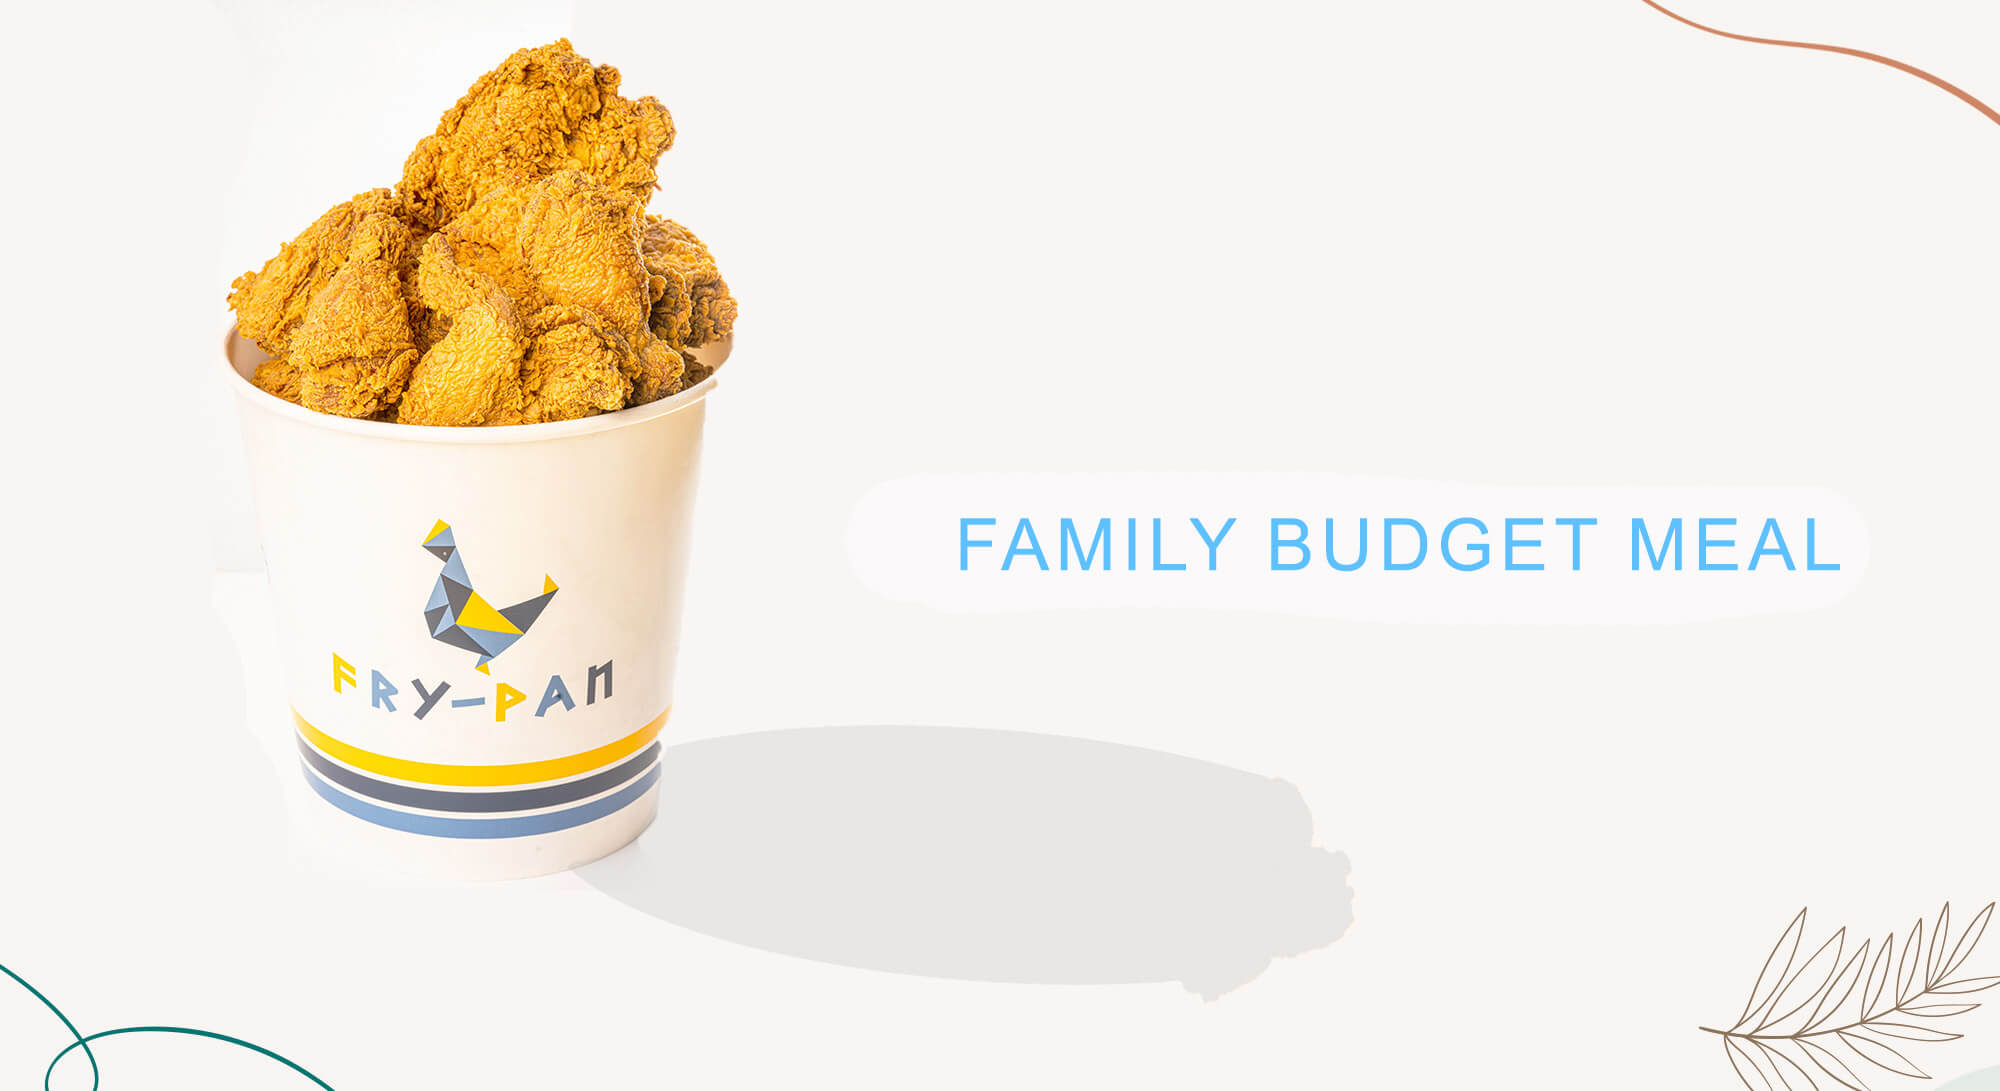
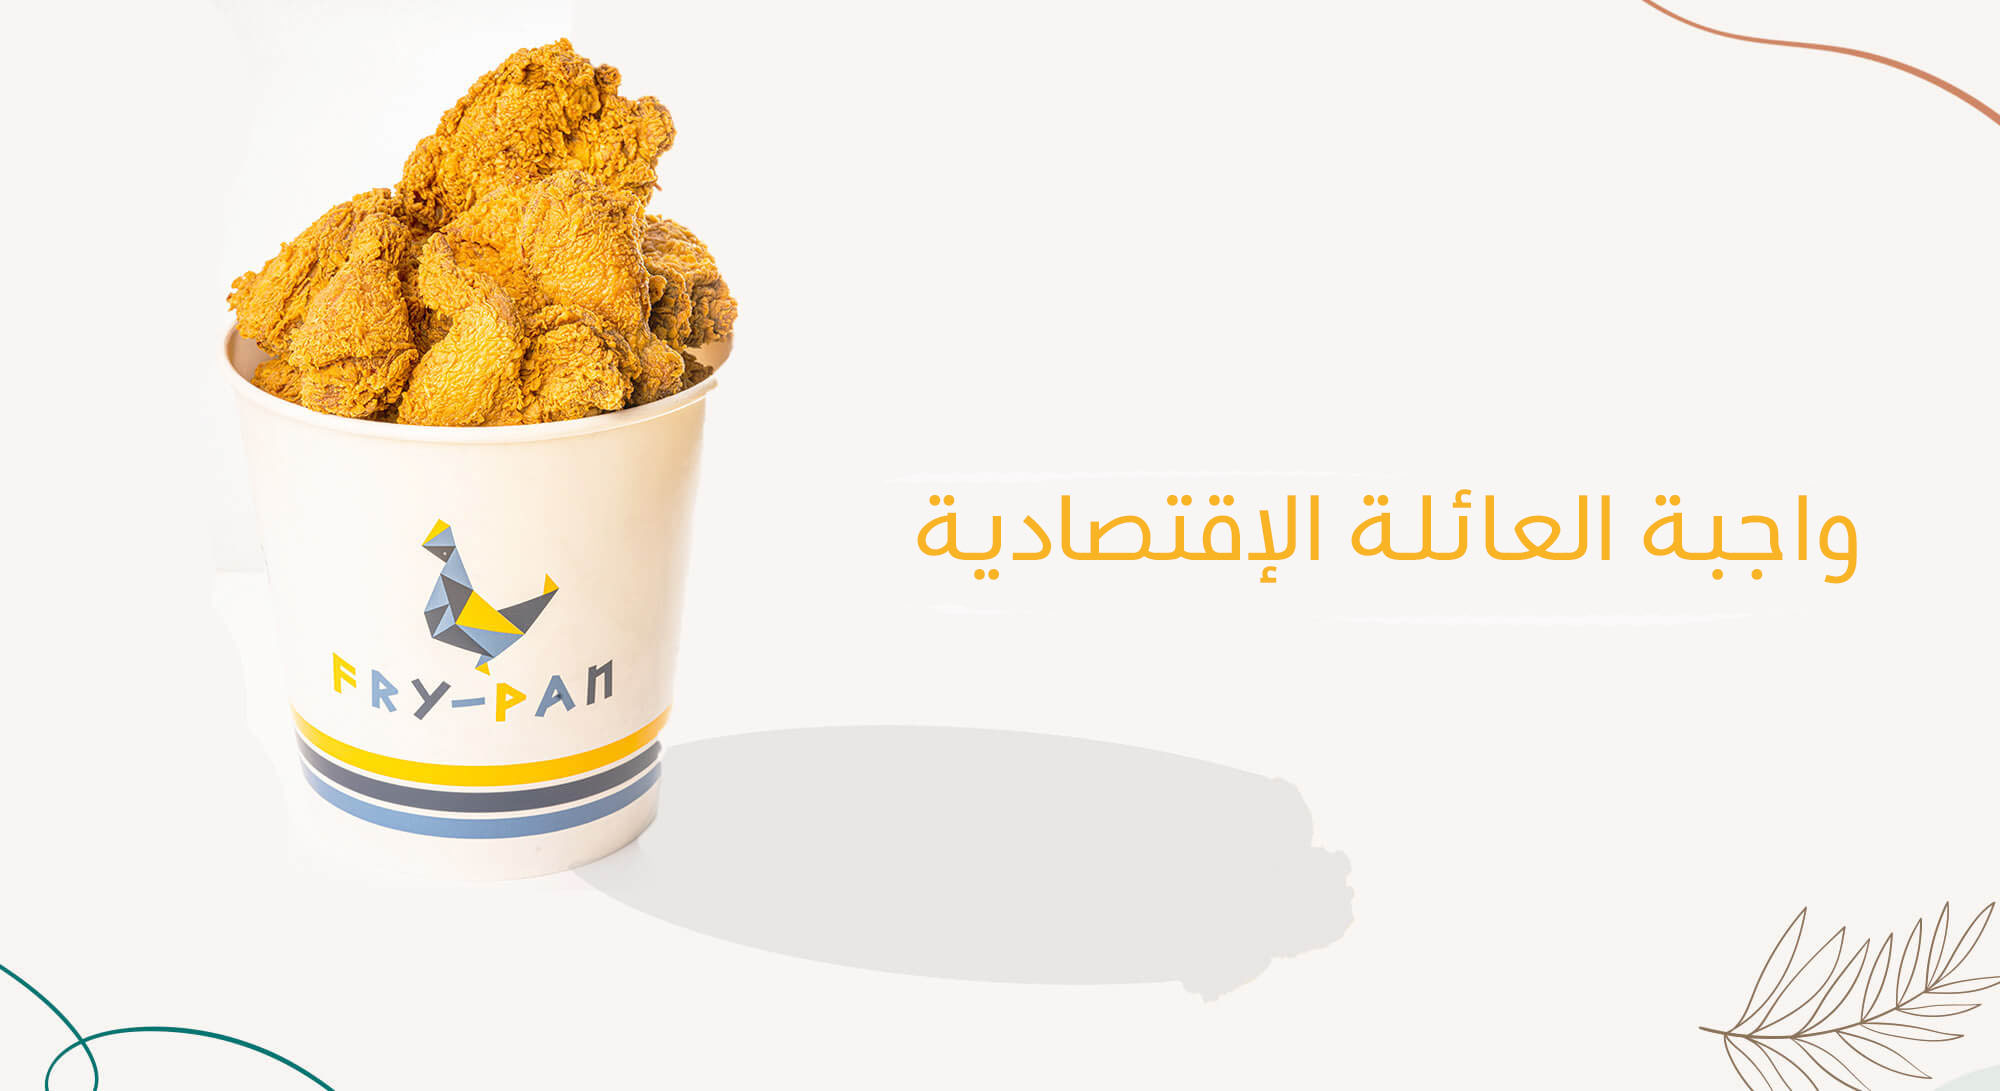
Add files via upload

Changed region(s): [[0.465, 0.4363, 0.93, 0.5298]]

diff --git a/index.html b/index.html
@@ -80,9 +80,9 @@
                             <img src="./img/Muscle-Gain.jpg" width="100%" alt="">
                         </div>
                         <div class="box-text text-center p-4">
-                            <h2 class="text-center mb-4">KIDS MEAL NUGGETS</h2>
-                            <li> 16.50 SR</li>
-                            <a href="#" class="btn">Order Now </a>
+                            <h2 class="text-center mb-4">وجبة طفل نقتس</h2>
+                            <li> 16.50 ريال</li>
+                            <a href="https://wa.me/+966559469990" class="btn">اطلب الأن </a>
                         </div>
                     </div>
                 </div>
@@ -92,9 +92,9 @@
                             <img src="./img/PCOS.jpg" width="100%" alt="">
                         </div>
                         <div class="box-text text-center p-4">
-                            <h2 class="text-center mb-4">KIDS MEAL BURGER</h2>
-                            <li> 16.50 SR</li>
-                            <a href="#" class="btn">Order Now </a>
+                            <h2 class="text-center mb-4">وجبة طفل برجر</h2>
+                            <li> 16.50 ريال</li>
+                            <a href="https://wa.me/+966559469990" class="btn"> اطلب الأن </a>
                         </div>
                     </div>
                 </div>
@@ -104,11 +104,11 @@
                             <img src="./img/Gluten-dairy-free.jpg" width="100%" alt="">
                         </div>
                         <div class="box-text text-center p-4">
-                            <h2 class="text-center mb-4">POPPERS NUGGETS</h2>
+                            <h2 class="text-center mb-4">بوبريس نيفتس</h2>
                             <ul class="box-list">
-                                <li>18.5 SR</li>
+                                <li>18.5 ريال</li>
                             </ul>
-                            <a href="#" class="btn">Order Now</a>
+                            <a href="https://wa.me/+966559469990" class="btn">اطلب الأن</a>
                         </div>
                     </div>
                 </div>
@@ -118,11 +118,11 @@
                             <img src="./img/Intermittent-fasting.jpg" width="100%" alt="">
                         </div>
                         <div class="box-text text-center p-4">
-                            <h2 class="text-center mb-4">SHRIMP FRIES BOWL</h2>
+                            <h2 class="text-center mb-4">شريمب فرايز</h2>
                             <ul class="box-list">
-                                <li>23.5 SR</li>
+                                <li>23.5 ريال</li>
                             </ul>
-                            <a href="#" class="btn">Order Now</a>
+                            <a href="https://wa.me/+966559469990" class="btn"> اطلب الأن</a>
                         </div>
                     </div>
                 </div>
@@ -148,7 +148,7 @@
         <div class="row">
             <div class="col-md-12">
                 <div class="card-header p-0 my-4 text-center">
-                    <h3 class="wow fadeInDown mb-4" data-wow-duration="2s" data-wow-offset="300">Check out our Linktr Page</h3>
+                    <h3 class="wow fadeInDown mb-4" data-wow-duration="2s" data-wow-offset="300">تابع عروضنا عبر صفحتنا</h3>
                 </div>
             </div>
             
@@ -184,7 +184,7 @@
             <div class="col-md-12">
                 <a href="https://linktr.ee/fry_pan1982" class="btn wow fadeIn" data-wow-duration="2s" data-wow-offset="300">
                     <i class="fa-brands"></i>
-                    Follow on Linktr
+                    اضغط هنا
                 </a>
             </div>
         </div>
@@ -203,7 +203,7 @@
                         <p>+966559469990</p>
                     </div>
                     <div class="col-md-4">
-                        <h4 class="title-footer mb-4">Follow us</h4>
+                        <h4 class="title-footer mb-4">سوشيال ميديا</h4>
                         <ul class="social-links d-flex p-0">
                             <li><a href="https://twitter.com/frypan1982" target="_blank"><i class="fab fa-twitter"></i></a></li>
                             <li><a href="https://www.instagram.com/fry_pan1/" target="_blank"><i class="fab fa-instagram"></i></a></li>
@@ -224,7 +224,7 @@
                 <div class="row">
                     <div class="col-md-12">
                         <p>جميع الحقوق محفوظه لمطعم فراي بان 2023@</p>
-                        <p><a style="color:white;" href="https://go5erv.github.io/2023/">Design By GoServ</a></p>
+                        <p><a style="color:white;" href="https://goserv-ksa.com/">Design By GoServ</a></p>
                     </div>
                 </div>
             </div>
